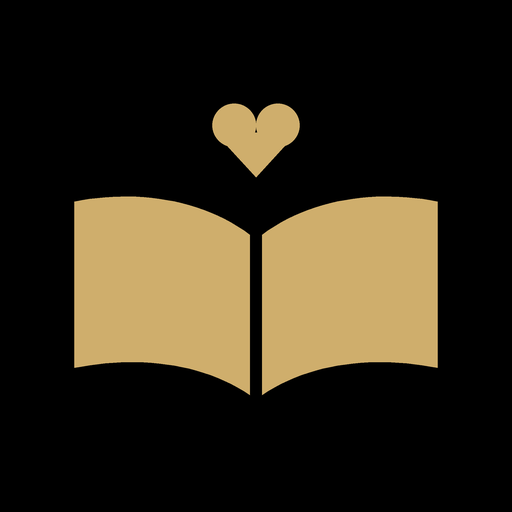
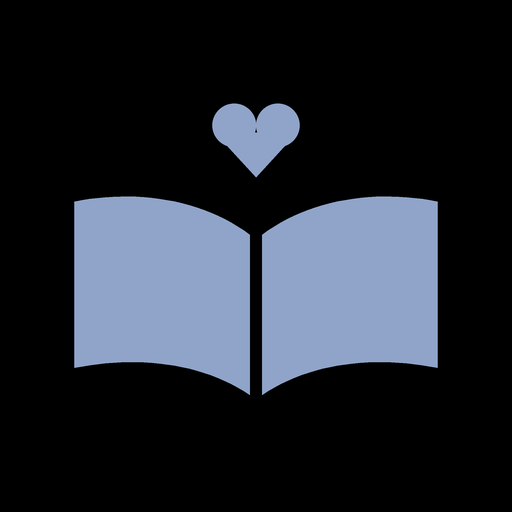
iPhone-Installhinweis, Kinddaten an einer Stelle, alles löschen, blaues App-Symbol (0.6.0)
- iOS im Browser: Anleitung „Zum Home-Bildschirm“ vor dem ersten Eintrag, danach Hinweisleiste
- Einstellungen: richtiger Text (pro Kind, per Backup aufs Partnerhandy); Baby nur als Zusammenfassung mit „Ändern“
- Kinder, Backup & Abgleich › Handy zurücksetzen: alle Daten löschen, vorher Backup angeboten, doppelt bestätigt
- App-Symbole in Dusty Blue (Vorlagen in icons/gold, werkzeuge/symbole_faerben.py)
- Test: Backup-Datei aus neuerer Version wird abgelehnt

Claude-Session: https://claude.ai/code/session_016rbHmuMfrQHcyxeKJmirgw

Changed region(s): [[0.125, 0.375, 0.875, 0.7812], [0.4062, 0.1875, 0.5938, 0.3438]]

diff --git a/js/pwa/kinder-backup.js b/js/pwa/kinder-backup.js
@@ -92,6 +92,40 @@ async function beispielAnlegen() {
   } catch (f) { fehler(f); return null; }
 }
 
+// ════════ iPhone/iPad: erst auf den Home-Bildschirm ════════
+// Auf iOS haben der Safari-Tab und die App auf dem Home-Bildschirm getrennte Speicher. Wer im Tab einträgt und
+// danach installiert, findet in der App nichts wieder – und iOS kann Website-Daten nach längerer Pause löschen.
+export function iosImBrowser() {
+  const ios = /iPhone|iPad|iPod/.test(navigator.userAgent) || (navigator.platform === "MacIntel" && navigator.maxTouchPoints > 1);
+  const installiert = navigator.standalone === true || matchMedia("(display-mode: standalone)").matches;
+  return ios && !installiert;
+}
+
+let installHinweisLaeuft = null;
+/** Einmal pro Sitzung im iOS-Browser: Anleitung zeigen. Wartet, bis „Nur ansehen“ gewählt wurde. */
+export function installHinweis({ immer = false } = {}) {
+  if (!iosImBrowser()) return Promise.resolve();
+  if (!immer) { try { if (sessionStorage.getItem("pwaNurAnsehen")) return Promise.resolve(); } catch (_) { /* egal */ } }
+  installHinweisLaeuft ??= new Promise(ok => {
+    const schritte = neu("ol", "pwa-schritte");
+    for (const t of ["Unten auf Teilen tippen (Viereck mit Pfeil nach oben, beim iPad oben rechts).",
+                     "„Zum Home-Bildschirm“ wählen – eventuell etwas nach unten scrollen.",
+                     "Rechts oben „Hinzufügen“ tippen und das Babybuch ab jetzt nur noch über das neue Symbol öffnen."])
+      schritte.append(neu("li", "", t));
+    const reihe = knopfReihe();
+    const d = fenster("Erst auf den Home-Bildschirm", "Auf dem iPhone speichert das Babybuch nur als App sicher.", schritte,
+      neu("p", "unter", "Was du hier im Browser einträgst, sieht die App auf dem Home-Bildschirm nicht – das iPhone hält beides getrennt und kann Browser-Daten nach längerer Pause löschen."),
+      reihe);
+    d.addEventListener("cancel", e => e.preventDefault());
+    reihe.append(knopf("Nur kurz ansehen", () => {
+      try { sessionStorage.setItem("pwaNurAnsehen", "1"); } catch (_) { /* egal */ }
+      d.close();
+    }));
+    d.addEventListener("close", () => { installHinweisLaeuft = null; ok(); });
+  });
+  return installHinweisLaeuft;
+}
+
 let sicherstellen = null;
 /** Ohne Kind kann die Oberfläche nichts anzeigen – beim ersten Start einmal fragen (auch wenn viele Anfragen gleichzeitig kommen). */
 export function kindSicherstellen() {
@@ -99,6 +133,7 @@ export function kindSicherstellen() {
     for (;;) {
       const k = await aktivesKind();
       if (k) return k;
+      await installHinweis();
       await kindDialog(null, { pflicht: true });
     }
   })().finally(() => { sicherstellen = null; });
@@ -168,7 +203,35 @@ async function abschnitte(neuZeichnen) {
     neu("p", "unter", `Babybuch Web-App ${APP_VERSION}. ` + (dauerhaft ? "Der Browser hält die Daten dauerhaft fest."
       : "Der Browser hat dauerhaftes Speichern nicht bestätigt – regelmäßige Backups sind deshalb besonders wichtig.")),
     neu("p", "unter", "Das Babybuch dokumentiert nur – es stellt keine Diagnose und ersetzt keine Hebamme und keinen Arzt."), links()));
+
+  // ── Zurücksetzen ──
+  teile.push(abschnitt("Handy zurücksetzen",
+    neu("p", "unter", "Zum Beispiel vor einem Handywechsel oder wenn ihr das Babybuch nicht mehr nutzt."),
+    knopf("Alle Daten auf diesem Handy löschen", () => allesLoeschenDialog().catch(fehler), "loeschen-knopf")));
   return teile;
+}
+
+/** Alles löschen: zuerst Backup anbieten, dann zweimal bestätigen. */
+async function allesLoeschenDialog() {
+  const kinder = await alleKinder();
+  const namen = kinder.map(k => k.daten.name).join(", ") || "keine Kinder";
+  const reihe = knopfReihe();
+  const d = fenster("Alle Daten löschen?", `Auf diesem Handy: ${namen}.`,
+    neu("p", "unter", "Gelöscht werden alle Kinder, Einträge, der Papierkorb und der Import-Verlauf. Das lässt sich nicht rückgängig machen. " +
+      "Schon geteilte Backup-Dateien und das Handy deines Partners bleiben unverändert."), reihe);
+  reihe.append(knopf("Abbrechen", () => d.close()));
+  if (kinder.length) reihe.append(knopf("Erst Backup sichern", () => { d.close(); backupTeilenDialog(); }, "haupt"));
+  d.append(knopf("Ohne weiteres Backup löschen", async () => {
+    if (!(await nachfragen("Wirklich alle Babybuch-Daten auf diesem Handy endgültig löschen?", "Endgültig löschen"))) return;
+    try {
+      await speicher.allesLoeschen();
+      const design = window.PWA_DESIGN?.lesen();
+      try { localStorage.clear(); sessionStorage.clear(); } catch (_) { /* egal */ }
+      if (design) window.PWA_DESIGN.setzen(design);          // Design ist keine persönliche Angabe – bleibt
+      try { sessionStorage.setItem("pwaHinweis", "Alle Daten auf diesem Handy wurden gelöscht."); } catch (_) { /* egal */ }
+      neuStarten();
+    } catch (f) { fehler(f); }
+  }, "loeschen-knopf"));
 }
 
 function links() {
@@ -283,6 +346,17 @@ export async function einbauen() {
     };
   }
   void kinder;
+  // Einstellungen › Baby: nur Zusammenfassung, bearbeitet wird im Kind-Dialog (eine Stelle für die Kinddaten)
+  const baby = $("pwa-baby");
+  if (baby && aktiv) {
+    const g = { w: "Mädchen", m: "Junge" }[aktiv.daten.geschlecht];
+    const teile = [g, aktiv.daten.geburtsdatum ? "geboren " + aktiv.daten.geburtsdatum.split("-").reverse().join(".") : "Geburtsdatum fehlt",
+                   aktiv.daten.geburtsgewicht ? `${aktiv.daten.geburtsgewicht} g` : ""].filter(Boolean);
+    const ul = neu("ul", "sicherung-liste");
+    ul.append(listenZeile(aktiv.daten.name, teile.join(" · "), knopf("Ändern", async () => { if (await kindDialog(aktiv)) neuStarten(); })));
+    baby.replaceChildren(ul);
+  }
+  installHinweis().catch(() => {});
   // Design-Umschalter in den Einstellungen
   const dz = $("pwa-design");
   if (dz && window.PWA_DESIGN) {
@@ -297,6 +371,12 @@ export async function einbauen() {
 async function hinweisZeichnen() {
   const f = await abgleich.backupFaellig(), ziel = $("pwa-hinweis");
   if (!ziel) return;
+  if (iosImBrowser()) {      // wichtiger als die Backup-Erinnerung
+    ziel.hidden = false;
+    ziel.replaceChildren(neu("span", "", "Im Browser geöffnet – Einträge hier sind getrennt von der App."),
+      knopf("So geht’s", () => installHinweis({ immer: true })));
+    return;
+  }
   ziel.hidden = !f;
   if (!f) return;
   ziel.replaceChildren(neu("span", "", f.seit === null ? "Noch kein Backup – jetzt sichern?" : `Letztes Backup vor ${f.seit} Tagen – jetzt sichern?`),

diff --git a/index.html b/index.html
@@ -1233,7 +1233,7 @@
     </div>
 
     <div class="karte mehr">
-      <button type="button" id="einstellungen-knopf">Einstellungen &amp; Export <span class="pfeil">Version Web 0.5.0 · Pi 3.0.2 ›</span></button>
+      <button type="button" id="einstellungen-knopf">Einstellungen &amp; Export <span class="pfeil">Version Web 0.6.0 · Pi 3.0.2 ›</span></button>
       <button type="button" id="pwa-daten-2">Kinder, Backup &amp; Abgleich <span class="pfeil">›</span></button>
     </div>
     <button type="button" class="g-bericht-knopf" id="a-bericht" hidden>Bericht erstellen · Hebamme oder Kinderärztin <span>›</span></button>
@@ -1425,7 +1425,7 @@
 <!-- Einstellungen & Export -->
 <dialog id="einstellungen-dialog" tabindex="-1">
   <h3>Einstellungen</h3>
-  <p class="unter">Gelten für alle Geräte der Familie.</p>
+  <p class="unter">Gelten für das angezeigte Kind. Aufs Partnerhandy kommen sie mit dem Backup.</p>
   <div class="einstellung">
     <label for="nacht-von">Nacht beginnt um</label>
     <select id="nacht-von"></select>
@@ -1446,6 +1446,8 @@
   </div>
   <div class="abschnitt">
     <h3>Baby</h3>
+    <div id="pwa-baby"></div>
+    <div id="pi-baby-felder" hidden>
     <div class="einstellung">
       <label for="baby-name">Name <span class="zuletzt-hinweis">(optional)</span></label>
       <input type="text" id="baby-name" class="feld-eingabe" maxlength="40" placeholder="z. B. Mila" autocomplete="off">
@@ -1466,11 +1468,12 @@
       <input type="text" id="baby-gg" class="feld-eingabe" inputmode="decimal" placeholder="g oder kg" autocomplete="off">
     </div>
     <p class="unter" id="baby-gg-vorschlag" style="margin:-4px 0 0;text-align:right" hidden></p>
+    </div>
     <p class="unter" style="margin:6px 0 0">Gut zu wissen: Bei der Geburt ordnet die Ärztin das Gewicht meist nach Schwangerschaftswoche ein. Die WHO-Perzentile der App vergleicht ohne Schwangerschaftswoche und kann davon abweichen – ab den ersten Lebenswochen ist die WHO-Kurve der übliche Maßstab (auch im U-Heft).</p>
   </div>
   <div class="abschnitt">
     <h3>Erinnerungen</h3>
-    <p class="unter">Für regelmäßige Gaben zeigt das Babybuch ab der Uhrzeit einen goldenen Hinweis oben. Beim Anlegen einer Gabe bietet es an, sie täglich in den Kalender des Handys einzutragen – dann erinnert das Handy.</p>
+    <p class="unter">Für regelmäßige Gaben zeigt das Babybuch ab der Uhrzeit oben einen Hinweis. Beim Anlegen einer Gabe bietet es an, sie täglich in den Kalender des Handys einzutragen – dann erinnert das Handy.</p>
     <div id="ei-geraete" hidden></div>
   </div>
   <div class="abschnitt">
@@ -1502,7 +1505,7 @@
   <div class="dialog-knoepfe" style="grid-template-columns:1fr;margin-top:18px">
     <button id="einstellungen-fertig" class="haupt">Fertig</button>
   </div>
-  <p class="unter" style="text-align:center;margin:12px 0 0">Babybuch · Version Web 0.5.0 · Pi 3.0.2</p>
+  <p class="unter" style="text-align:center;margin:12px 0 0">Babybuch · Version Web 0.6.0 · Pi 3.0.2</p>
 </dialog>
 
 <!-- "Beide": an welcher Seite zuletzt? -->
@@ -1934,7 +1937,7 @@
   // ════════════════════════════════════════════════════════
   const NUTZUNG = (() => {
     const ZUSTAND = ["aktiv", "fertig", "faellig", "an", "gefuellt", "laeuft", "heute", "ueber", "sichtbar", "zu"];
-    const VERSION = "web-0.5.0", SICHER = ["a", "t", "teil", "ansicht", "w", "sym", "seite", "art", "bereich", "h", "gesamt", "d"];
+    const VERSION = "web-0.6.0", SICHER = ["a", "t", "teil", "ansicht", "w", "sym", "seite", "art", "bereich", "h", "gesamt", "d"];
     const lies = (k, d) => { try { return localStorage.getItem(k) ?? d; } catch (_) { return d; } };
     const schreib = (k, v) => { try { localStorage.setItem(k, v); } catch (_) { /* egal */ } };
     let geraet = lies("nutzungGeraet", null);

diff --git a/js/kern/speicher.js b/js/kern/speicher.js
@@ -160,5 +160,16 @@ export async function dauerhaftAnfordern() {
 }
 
 // ── Änderungen melden (Oberfläche zeichnet neu) ──
+/** Alle Daten dieses Geräts endgültig löschen (Kinder, Einträge, Papierkorb, Meta). Nicht rückgängig zu machen. */
+export async function allesLoeschen() {
+  if (dbVersprechen) { try { (await dbVersprechen).close(); } catch (_) { /* war nicht offen */ } dbVersprechen = null; }
+  await new Promise((ok, fehler) => {
+    const r = indexedDB.deleteDatabase(DB_NAME);
+    r.onsuccess = () => ok();
+    r.onerror = () => fehler(r.error);
+    r.onblocked = () => fehler(new Error("Babybuch ist noch in einem anderen Fenster geöffnet – bitte dort schließen und nochmal versuchen."));
+  });
+}
+
 export function beobachten(f) { zuhoerer.add(f); return () => zuhoerer.delete(f); }
 function melden(ereignis) { for (const f of zuhoerer) { try { f(ereignis); } catch (e) { console.error(e); } } }

diff --git a/sw.js b/sw.js
@@ -2,7 +2,7 @@
 // Die App läuft danach auch ohne Internet. Daten liegen NICHT hier, sondern in IndexedDB.
 // Neue Version ausliefern: CACHE-Namen erhöhen (gleich wie js/kern/version.js).
 
-const CACHE = "babybuch-0.5.0";
+const CACHE = "babybuch-0.6.0";
 const DATEIEN = [
   "./", "index.html", "manifest.webmanifest", "css/pwa.css", "css/seiten.css", "datenschutz.html", "hilfe.html",
   "js/lokal/weiche.js", "js/pwa/design.js", "js/lokal/server.js", "js/lokal/hilfen.js", "js/lokal/tabellen.js",

diff --git a/css/pwa.css b/css/pwa.css
@@ -52,3 +52,5 @@ html.nachtmodus[data-design="blau"] {
 .kopf .marke svg path { fill: var(--marke); }
 .kopf-hinweis:not(.termin) { border-color: var(--marke); color: var(--marke-hell); }
 .pwa-design .umschalter { min-width: 11rem; }
+.pwa-schritte { margin: 4px 0 8px; padding-left: 1.3em; line-height: 1.45; }
+.pwa-schritte li { margin: 6px 0; }

diff --git a/js/kern/version.js b/js/kern/version.js
@@ -1,2 +1,2 @@
 // Babybuch PWA · Versionsnummer (bei jeder Auslieferung erhöhen, dann lädt das Handy die neue App)
-export const APP_VERSION = "0.5.0";
+export const APP_VERSION = "0.6.0";

diff --git a/tests/sicherheit_und_reset.py b/tests/sicherheit_und_reset.py
@@ -1,0 +1,54 @@
+import asyncio, sys, http.server, threading, functools, os
+from playwright.async_api import async_playwright
+WEB, AUS = sys.argv[1], sys.argv[2]; os.makedirs(AUS, exist_ok=True)
+http.server.SimpleHTTPRequestHandler.log_message = lambda *a: None
+srv = http.server.ThreadingHTTPServer(("127.0.0.1", 8774), functools.partial(http.server.SimpleHTTPRequestHandler, directory=WEB))
+threading.Thread(target=srv.serve_forever, daemon=True).start()
+URL = "http://127.0.0.1:8774/"
+IPHONE = "Mozilla/5.0 (iPhone; CPU iPhone OS 18_1 like Mac OS X) AppleWebKit/605.1.15 (KHTML, like Gecko) Version/18.1 Mobile/15E148 Safari/604.1"
+async def offen_titel(p): return await p.evaluate("[...document.querySelectorAll('dialog[open]')].map(d => d.querySelector('h2,h3')?.innerText || '?')")
+async def main():
+    async with async_playwright() as pw:
+        b = await pw.chromium.launch(executable_path="/usr/bin/google-chrome", args=["--no-sandbox"])
+        # ── 1) iPhone-Safari-Tab
+        ctx = await b.new_context(viewport={"width": 390, "height": 844}, device_scale_factor=2, is_mobile=True, has_touch=True, locale="de-DE", user_agent=IPHONE)
+        p = await ctx.new_page(); fehler = []; p.on("pageerror", lambda e: fehler.append(str(e)))
+        await p.goto(URL); await p.wait_for_timeout(1200)
+        print("iOS Start – offene Fenster:", await offen_titel(p))
+        await p.screenshot(path=f"{AUS}/ios_hinweis.png")
+        await p.locator("dialog[open]").last.get_by_role("button", name="Nur kurz ansehen").click(); await p.wait_for_timeout(500)
+        print("nach 'Nur kurz ansehen':", await offen_titel(p))
+        await p.locator("dialog[open]").last.get_by_role("button", name="Beispielkind ansehen").click()
+        await p.wait_for_function("!document.querySelector('dialog[open]')", timeout=30000)
+        await p.reload(); await p.wait_for_timeout(1500)
+        print("iOS nach Neuladen – Fenster:", await offen_titel(p), "· Banner:", await p.evaluate("(() => { const h = document.getElementById('pwa-hinweis'); return h.hidden ? '-' : h.innerText.replace(/\\n/g,' ') })()"))
+        await p.click("#tab-auswertung"); await p.wait_for_timeout(400)
+        await p.screenshot(path=f"{AUS}/ios_banner.png", clip={"x":0,"y":0,"width":390,"height":200})
+        await ctx.close()
+        # ── 2) normales Handy
+        ctx = await b.new_context(viewport={"width": 390, "height": 844}, device_scale_factor=2, is_mobile=True, has_touch=True, locale="de-DE")
+        p = await ctx.new_page(); p.on("pageerror", lambda e: fehler.append(str(e)))
+        await p.goto(URL); await p.wait_for_timeout(1200)
+        print("Android Start – Fenster:", await offen_titel(p))
+        await p.locator("dialog[open]").last.get_by_role("button", name="Beispielkind ansehen").click()
+        await p.wait_for_function("!document.querySelector('dialog[open]')", timeout=30000)
+        await p.reload(); await p.wait_for_timeout(1500)
+        await p.evaluate("window.PWA_DESIGN.setzen('gold')")
+        await p.evaluate("einstellungenOeffnen()"); await p.wait_for_timeout(500)
+        print("Einstellungen-Text:", await p.evaluate("document.querySelector('dialog[open] .unter')?.innerText"))
+        print("Baby:", (await p.inner_text("#pwa-baby")).replace("\n", " | "), "· Pi-Felder versteckt:", await p.evaluate("document.getElementById('pi-baby-felder').hidden"))
+        await p.locator("#pwa-baby").scroll_into_view_if_needed(); await p.screenshot(path=f"{AUS}/baby.png")
+        await p.locator("#pwa-baby").get_by_role("button", name="Ändern").click(); await p.wait_for_timeout(400)
+        print("Ändern öffnet:", await offen_titel(p))
+        await p.keyboard.press("Escape"); await p.keyboard.press("Escape"); await p.wait_for_timeout(300)
+        await p.evaluate("import('./js/pwa/kinder-backup.js').then(m => m.oeffnen())"); await p.wait_for_timeout(600)
+        await p.locator("dialog[open]").last.get_by_role("button", name="Alle Daten auf diesem Handy löschen").click(); await p.wait_for_timeout(400)
+        await p.screenshot(path=f"{AUS}/loeschen.png")
+        await p.locator("dialog[open]").last.get_by_role("button", name="Ohne weiteres Backup löschen").click(); await p.wait_for_timeout(400)
+        async with p.expect_navigation():
+            await p.locator("dialog[open]").last.get_by_role("button", name="Endgültig löschen").click()
+        await p.wait_for_timeout(1500)
+        print("nach Löschen – Fenster:", await offen_titel(p), "· Design:", await p.evaluate("document.documentElement.dataset.design"),
+              "· Datensätze:", await p.evaluate("import('./js/kern/speicher.js').then(s => s.alle()).then(a => a.length)"))
+        print("Fehler:", fehler or "keine"); await b.close()
+asyncio.run(main())

diff --git a/werkzeuge/pi_uebernehmen.py b/werkzeuge/pi_uebernehmen.py
@@ -60,6 +60,15 @@ def uebernehmen(index, pi_version, web_version):
   </div>
   <div class="einstellung">
     <label for="nachtmodus">Gedimmt in der Nacht''')
+    # Einstellungen gelten in der Web-App pro Kind und Handy (nicht „für alle Geräte“ wie beim Pi-Server)
+    s = ersetzen(s, '<p class="unter">Gelten für alle Geräte der Familie.</p>',
+                 '<p class="unter">Gelten für das angezeigte Kind. Aufs Partnerhandy kommen sie mit dem Backup.</p>')
+    # Kinddaten nur an einer Stelle bearbeiten: im Abschnitt „Baby“ steht eine Zusammenfassung mit „Ändern“ (Kind-Dialog);
+    # die Pi-Felder bleiben unsichtbar im Dokument, damit der Pi-Code unverändert läuft.
+    s = ersetzen(s, '<h3>Baby</h3>\n    <div class="einstellung">\n      <label for="baby-name">',
+                 '<h3>Baby</h3>\n    <div id="pwa-baby"></div>\n    <div id="pi-baby-felder" hidden>\n    <div class="einstellung">\n      <label for="baby-name">')
+    s = ersetzen(s, '<p class="unter" id="baby-gg-vorschlag" style="margin:-4px 0 0;text-align:right" hidden></p>',
+                 '<p class="unter" id="baby-gg-vorschlag" style="margin:-4px 0 0;text-align:right" hidden></p>\n    </div>')
     # 3) Kopfzeile: Kind-Knopf „Name ▾“ – immer sichtbar (Entscheidung 24.11.), links neben dem Seitentitel.
     #    Auf schmalen Handys ersetzt er den Seitentitel (welcher Reiter offen ist, zeigt die Leiste unten) – so bleibt
     #    rechts Platz für Stoppuhr, „○ Vitamin D“ und „Bericht“ wie in der Pi-Version.
@@ -76,7 +85,7 @@ def uebernehmen(index, pi_version, web_version):
     s = ersetzen(s, '$("sicherung-oeffnen").onclick = sicherungenOeffnen;', "/* Web-App: Sicherungen → Backup (js/pwa/kinder-backup.js) */")
     # 7) Erinnerungen über die Home-Assistant-App gibt es nicht
     s = ersetzen(s, '<p class="unter">Für tägliche Gaben (z. B. Vitamin D): Mitteilung über die Home-Assistant-App an diese iPhones.</p>\n    <div id="ei-geraete"></div>',
-                 '<p class="unter">Für regelmäßige Gaben zeigt das Babybuch ab der Uhrzeit einen goldenen Hinweis oben. '
+                 '<p class="unter">Für regelmäßige Gaben zeigt das Babybuch ab der Uhrzeit oben einen Hinweis. '
                  'Beim Anlegen einer Gabe bietet es an, sie täglich in den Kalender des Handys einzutragen – dann erinnert das Handy.</p>\n    <div id="ei-geraete" hidden></div>')
     s = ersetzen(s, '<div class="g-block-dlg"><p class="label">Erinnerung</p>', '<div class="g-block-dlg" hidden><p class="label">Erinnerung</p>')
     s = ersetzen(s, '<div class="g-block-dlg"><p class="label">Im Widget / Kurzbefehl abhaken</p>',

diff --git a/werkzeuge/symbole_faerben.py b/werkzeuge/symbole_faerben.py
@@ -1,0 +1,26 @@
+#!/usr/bin/env python3
+"""Färbt die App-Symbole (Home-Bildschirm) um: liest die goldenen Vorlagen aus icons/gold/ und schreibt icons/*.png.
+
+Aufruf:  python3 werkzeuge/symbole_faerben.py            → Dusty Blue (Standard-Design der Web-App)
+         python3 werkzeuge/symbole_faerben.py gold       → wieder Gold wie die Pi-Version
+
+Das Symbol ist Gold auf Schwarz mit weichen Kanten. Jeder Pixel ist (Helligkeit × Gold); er wird zu (Helligkeit × Zielfarbe).
+"""
+import pathlib, sys
+from PIL import Image
+
+GOLD = (207, 174, 108)
+FARBEN = {"blau": (143, 164, 200), "gold": GOLD}
+basis = pathlib.Path(__file__).resolve().parent.parent / "icons"
+ziel = FARBEN[sys.argv[1] if len(sys.argv) > 1 else "blau"]
+summe = sum(GOLD)
+for vorlage in sorted((basis / "gold").glob("*.png")):
+    bild = Image.open(vorlage).convert("RGBA")
+    px = bild.load()
+    for y in range(bild.height):
+        for x in range(bild.width):
+            r, g, b, a = px[x, y]
+            t = (r + g + b) / summe
+            px[x, y] = tuple(min(255, round(t * c)) for c in ziel) + (a,)
+    bild.save(basis / vorlage.name, optimize=True)
+    print("gefärbt:", vorlage.name)
